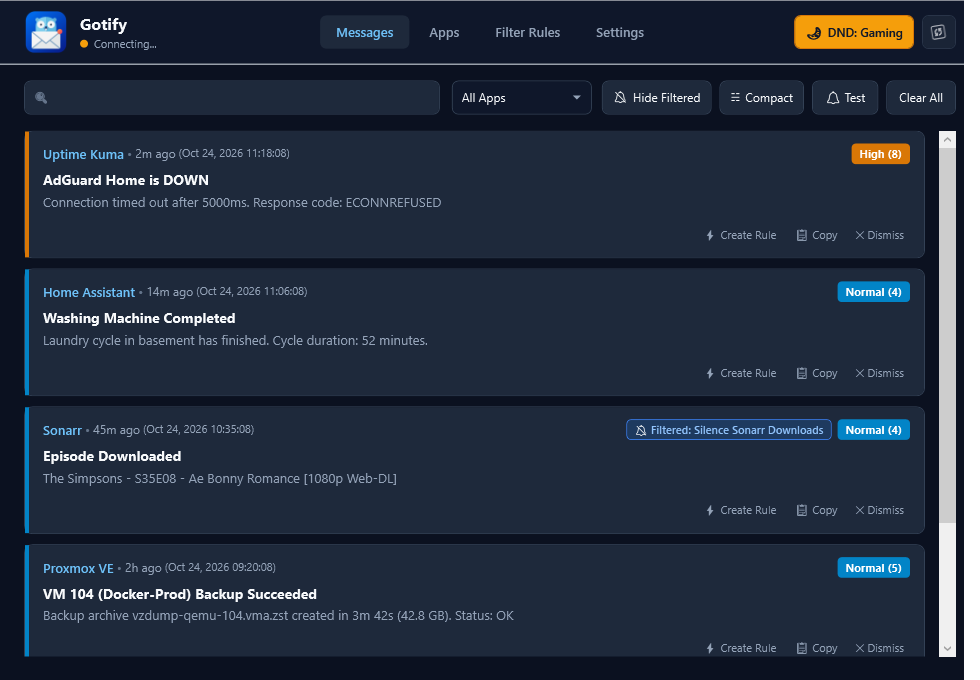
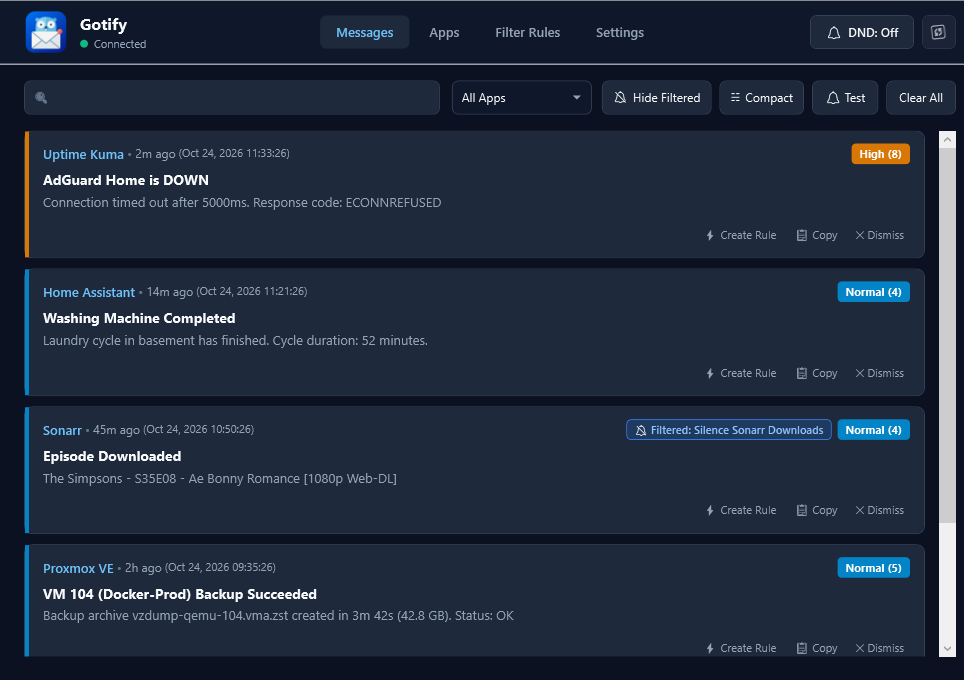
fix: differentiate full-screen game, presentation, and busy DND states; re-render clean showcase screenshots with DND Off

Changed region(s): [[0.7959, 0.0, 0.949, 0.0926], [0.2755, 0.4015, 0.3061, 0.4324], [0.1224, 0.0618, 0.1531, 0.0926]]

diff --git a/src/GotifyWin/Services/DndManager.cs b/src/GotifyWin/Services/DndManager.cs
@@ -81,16 +81,20 @@ public class DndManager : IDndManager
         }
     }
 
-    public bool IsFullscreenAppRunning()
+    public FullscreenState GetFullscreenState()
     {
         try
         {
             var hr = SHQueryUserNotificationState(out var state);
             if (hr == 0) // S_OK
             {
-                return state == USER_NOTIFICATION_STATE.QUNS_RUNNING_D3D_FULL_SCREEN
-                    || state == USER_NOTIFICATION_STATE.QUNS_PRESENTATION_MODE
-                    || state == USER_NOTIFICATION_STATE.QUNS_BUSY;
+                return state switch
+                {
+                    USER_NOTIFICATION_STATE.QUNS_RUNNING_D3D_FULL_SCREEN => FullscreenState.Game,
+                    USER_NOTIFICATION_STATE.QUNS_PRESENTATION_MODE => FullscreenState.Presentation,
+                    USER_NOTIFICATION_STATE.QUNS_BUSY => FullscreenState.Busy,
+                    _ => FullscreenState.None
+                };
             }
         }
         catch
@@ -98,7 +102,12 @@ public class DndManager : IDndManager
             // Ignore on platforms where shell32 is unavailable
         }
 
-        return false;
+        return FullscreenState.None;
+    }
+
+    public bool IsFullscreenAppRunning()
+    {
+        return GetFullscreenState() != FullscreenState.None;
     }
 
     public void SetManualDnd(DndSettings settings, TimeSpan? duration)
@@ -133,9 +142,15 @@ public class DndManager : IDndManager
             return $"Quiet Hours active ({settings.QuietHoursStart:hh\\:mm} - {settings.QuietHoursEnd:hh\\:mm})";
         }
 
-        if (settings.SuppressOnFullscreenApps && IsFullscreenAppRunning())
+        if (settings.SuppressOnFullscreenApps)
         {
-            return "DND on (Fullscreen App / Game detected)";
+            var fs = GetFullscreenState();
+            if (fs == FullscreenState.Game)
+                return "DND on (DirectX Game detected)";
+            if (fs == FullscreenState.Presentation)
+                return "DND on (Presentation mode detected)";
+            if (fs == FullscreenState.Busy)
+                return "DND on (Media / Busy detected)";
         }
 
         return "DND: Off";

diff --git a/src/GotifyWin/Services/ShowcaseGenerator.cs b/src/GotifyWin/Services/ShowcaseGenerator.cs
@@ -22,6 +22,13 @@ public static class ShowcaseGenerator
         vm.Feed.IsCompactView = false;
         vm.SelectedTabIndex = 0;
 
+        // Presentation badges: Clean connected state & DND Off
+        vm.ConnectionStatusText = "Connected";
+        vm.ConnectionStatusColor = "#10B981";
+        vm.IsDndActive = false;
+        vm.DndStatusText = "DND: Off";
+        vm.DndButtonLabel = "DND: Off";
+
         var mockMessages = new List<GotifyMessage>
         {
             new()
@@ -92,6 +99,12 @@ public static class ShowcaseGenerator
         // 2. Light Mode Rules Page Screenshot
         themeManager.ApplyTheme(AppThemeMode.Light);
         vm.SelectedTabIndex = 2;
+
+        vm.ConnectionStatusText = "Connected";
+        vm.ConnectionStatusColor = "#10B981";
+        vm.IsDndActive = false;
+        vm.DndStatusText = "DND: Off";
+        vm.DndButtonLabel = "DND: Off";
 
         vm.Rules.IsConfiguredRulesExpanded = true;
         vm.Rules.IsRecommendationsExpanded = true;

diff --git a/tests/GotifyWin.Tests/DndManagerTests.cs b/tests/GotifyWin.Tests/DndManagerTests.cs
@@ -106,4 +106,31 @@ public class DndManagerTests
         var testTime = new DateTime(2026, 10, 22, 12, 0, 0);
         Assert.False(_manager.IsQuietHours(settings, testTime));
     }
+
+    [Fact]
+    public void GetStatusDescription_WhenDndOff_ReturnsDndOff()
+    {
+        var settings = new DndSettings
+        {
+            IsManualDndActive = false,
+            QuietHoursEnabled = false,
+            SuppressOnFullscreenApps = false
+        };
+
+        var desc = _manager.GetStatusDescription(settings);
+        Assert.Equal("DND: Off", desc);
+    }
+
+    [Fact]
+    public void GetStatusDescription_WhenManualDndIndefinite_ReturnsIndefinite()
+    {
+        var settings = new DndSettings
+        {
+            IsManualDndActive = true,
+            ManualDndUntilUtc = null
+        };
+
+        var desc = _manager.GetStatusDescription(settings);
+        Assert.Equal("DND on (Indefinite)", desc);
+    }
 }

diff --git a/src/GotifyWin/Services/IDndManager.cs b/src/GotifyWin/Services/IDndManager.cs
@@ -2,11 +2,20 @@ using GotifyWin.Models.Config;
 
 namespace GotifyWin.Services;
 
+public enum FullscreenState
+{
+    None,
+    Game,          // Direct3D / DirectX Game
+    Presentation,  // Windows presentation / projector
+    Busy           // Fullscreen media / busy
+}
+
 public interface IDndManager
 {
     bool IsDndActive(DndSettings settings);
     bool IsQuietHours(DndSettings settings, DateTime? currentTime = null);
     bool IsFullscreenAppRunning();
+    FullscreenState GetFullscreenState();
     void SetManualDnd(DndSettings settings, TimeSpan? duration);
     void DisableManualDnd(DndSettings settings);
     string GetStatusDescription(DndSettings settings);

diff --git a/src/GotifyWin/ViewModels/MainViewModel.cs b/src/GotifyWin/ViewModels/MainViewModel.cs
@@ -401,7 +401,14 @@ public class MainViewModel : ViewModelBase
         }
         else if (dnd.SuppressOnFullscreenApps && _dndManager.IsFullscreenAppRunning())
         {
-            DndButtonLabel = "DND: Gaming";
+            var fs = _dndManager.GetFullscreenState();
+            DndButtonLabel = fs switch
+            {
+                FullscreenState.Game => "DND: Game",
+                FullscreenState.Presentation => "DND: Present",
+                FullscreenState.Busy => "DND: Media",
+                _ => "DND: Active"
+            };
         }
         else
         {
